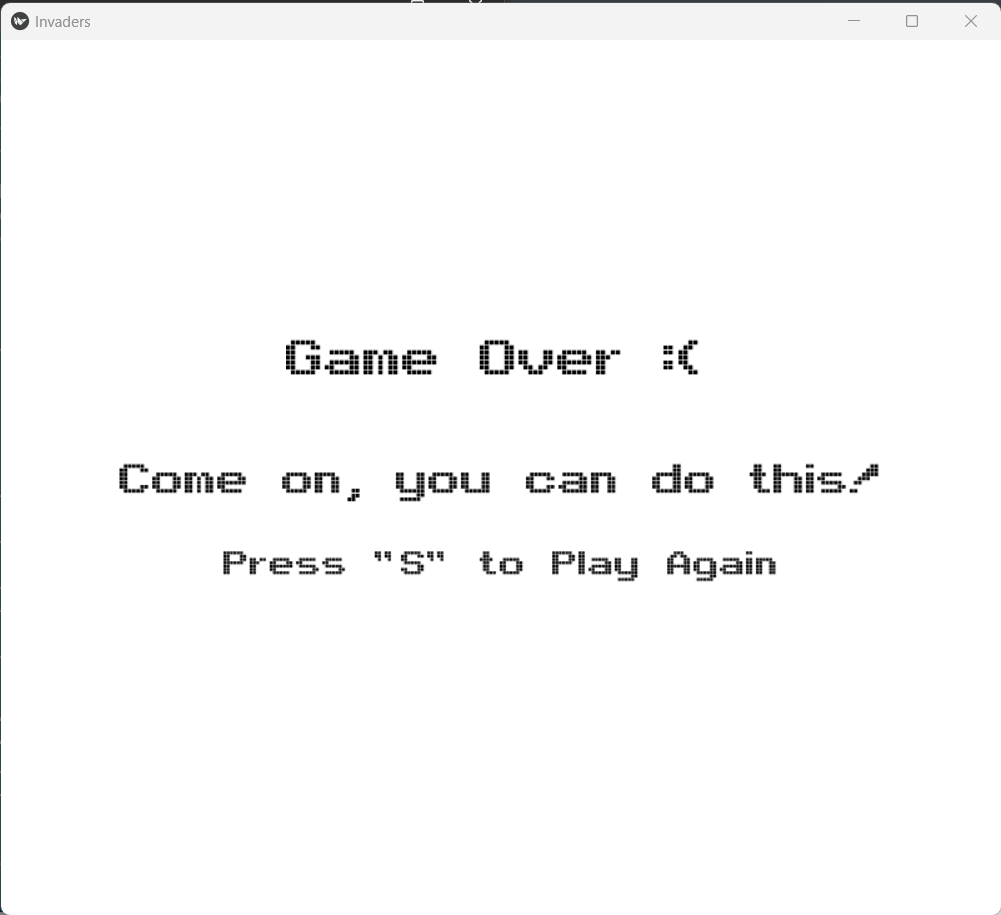
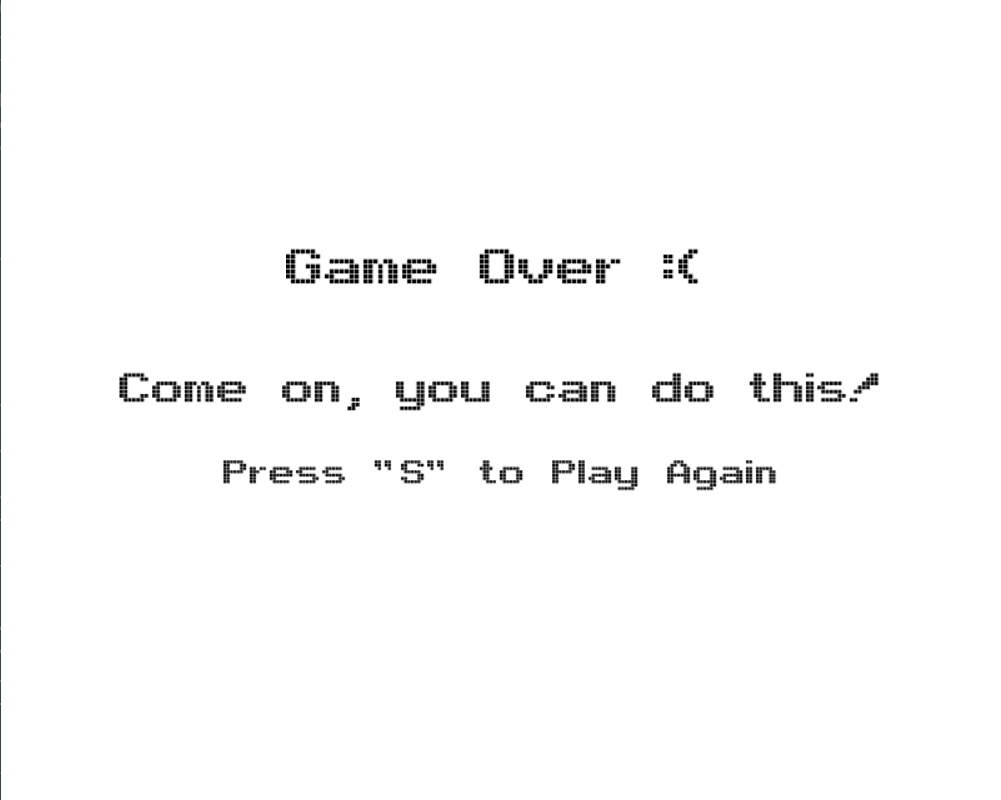
Update pictures in README.md

diff --git a/README.md b/README.md
@@ -18,8 +18,8 @@ If you press "s", you will find yourself at this screen:
 ## Goal of the game
 You are the ship and the goal of the game is to shoot all of the aliens before they reach the line. You move with the left and right arrow keys and shoot with "space bar". The alien horde is also shooting lasers down at random every second. If a laser hits the ship, you lose a life and you only have 3 lives. See an alien elimination in the image on the left and losing a life on the image to the right:
 
-<p style="text-align: center;"><img src="images/alien_destroyed.png" width="400" style="background-color:white"/></p>
-<p style="text-align: center;"><img src="images/ship_destroyed.png" width="400"style="background-color:white"/></p>
+<p style="text-align: center;"><img src="images/alien_destroyed.png" width="250"/></p>
+<p style="text-align: center;"><img src="images/ship_destroyed.png" width="250"/></p>
 
 If you run out of lives or the aliens reach you before shooting all of them, then you see the following screen:
 
